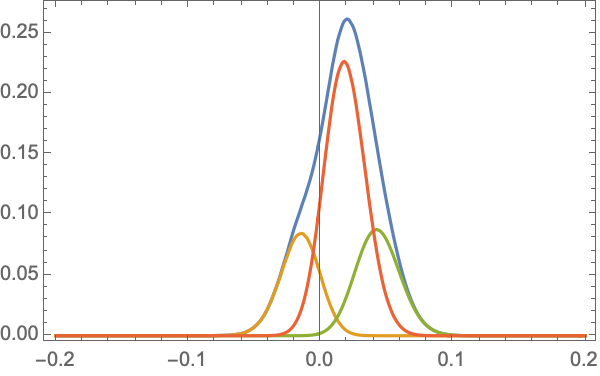
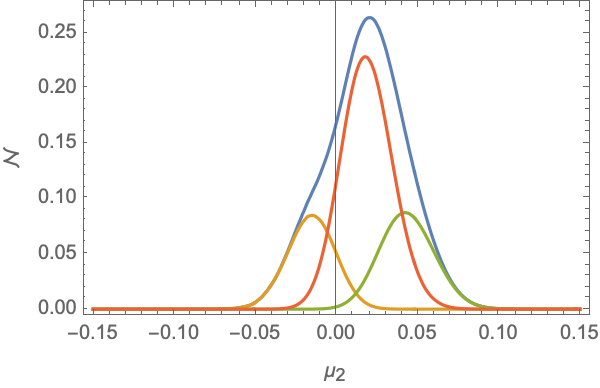
critical points

diff --git a/2D Caustic Skeleton II.tex b/2D Caustic Skeleton II.tex
@@ -251,7 +251,25 @@ Finally, caustic skeleton theory includes a set of Morse points, at which the mu
 \begin{align}
 \nabla \mu_{t,i}(\bm{q}_c)=\bm{0}\,.
 \end{align}
-The maxima and minima of the eigenvalue field $\mu_i$ mark the locations and times at which a multi-stream region emerges or disappears. A critical point that undergoes shell-crossing always lies on a cusp curves, as a point with a vanishing gradient automatically satisfies equation \eqref{eq:cuspCondition}. The maxima and minima are known as $A_3^+$ points. The saddle point of the eigenvalue field $\mu_{t,i}$ mark the location and time at which two multi-stream regions merge to form a larger structure. At the $A_3^-$ point, two cusp curves corresponding to two filaments join. The Morse points determine the connectivity of the cosmic web. 
+The maxima and minima of the eigenvalue field $\mu_i$ mark the locations and times at which a multi-stream region emerges or disappears. A critical point that undergoes shell-crossing always lies on a cusp curves, as a point with a vanishing gradient automatically satisfies equation \eqref{eq:cuspCondition}. The maxima and minima are known as $A_3^+$ points. The saddle point of the eigenvalue field $\mu_{t,i}$ mark the location and time at which two multi-stream regions merge to form a larger structure. At the $A_3^-$ point, two cusp curves corresponding to two filaments join. The Morse points determine the connectivity of the cosmic web. See figure \ref{fig:critical} for a comparison of the critical point densities of the density perturbation and the two eigenvalue fields at early times.
+
+
+\begin{figure}
+\centering
+\begin{subfigure}[b]{0.32\textwidth}
+\includegraphics[width=\textwidth]{Critical_lambda_2}
+\caption{The eigenvalue field $\mu_1$}
+\end{subfigure}~
+\begin{subfigure}[b]{0.32\textwidth}
+\includegraphics[width=\textwidth]{Critical_dens}
+\caption{The density perturbation $\delta$}
+\end{subfigure}~
+\begin{subfigure}[b]{0.32\textwidth}
+\includegraphics[width=\textwidth]{Critical_lambda_1}
+\caption{The eigenvalue field $\mu_2$}
+\end{subfigure}
+\caption{The critical point densities of the density pertubation and the eigenvalue fields. The total critical point density (blue), the density of maxima (green), saddle points (red), and minima (orange).}\label{fig:critical}
+\end{figure}
 
 In tabel \ref{table:caustics}, we summarize the different elements of the caustic skeleton. For a complete contemporary description of caustic skeleton theory, we refer to \cite{Hidding:2014, Feldbrugge:2018}.\\
 
